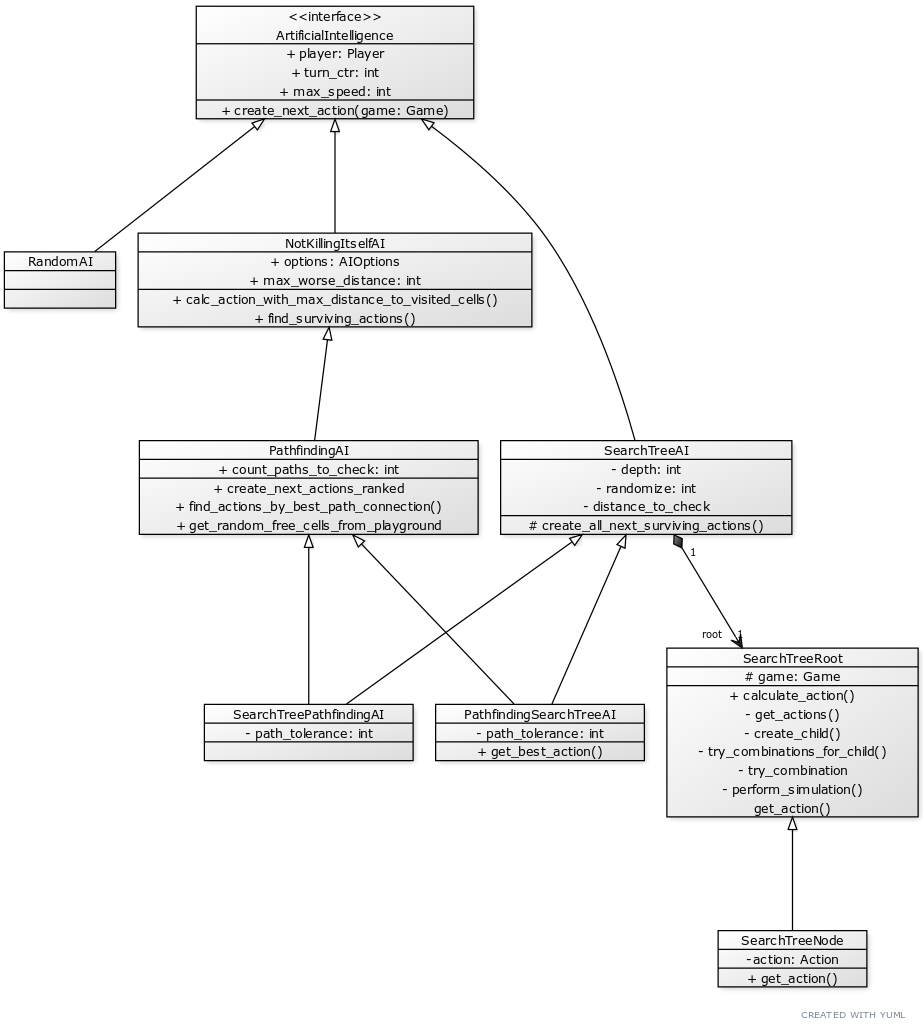
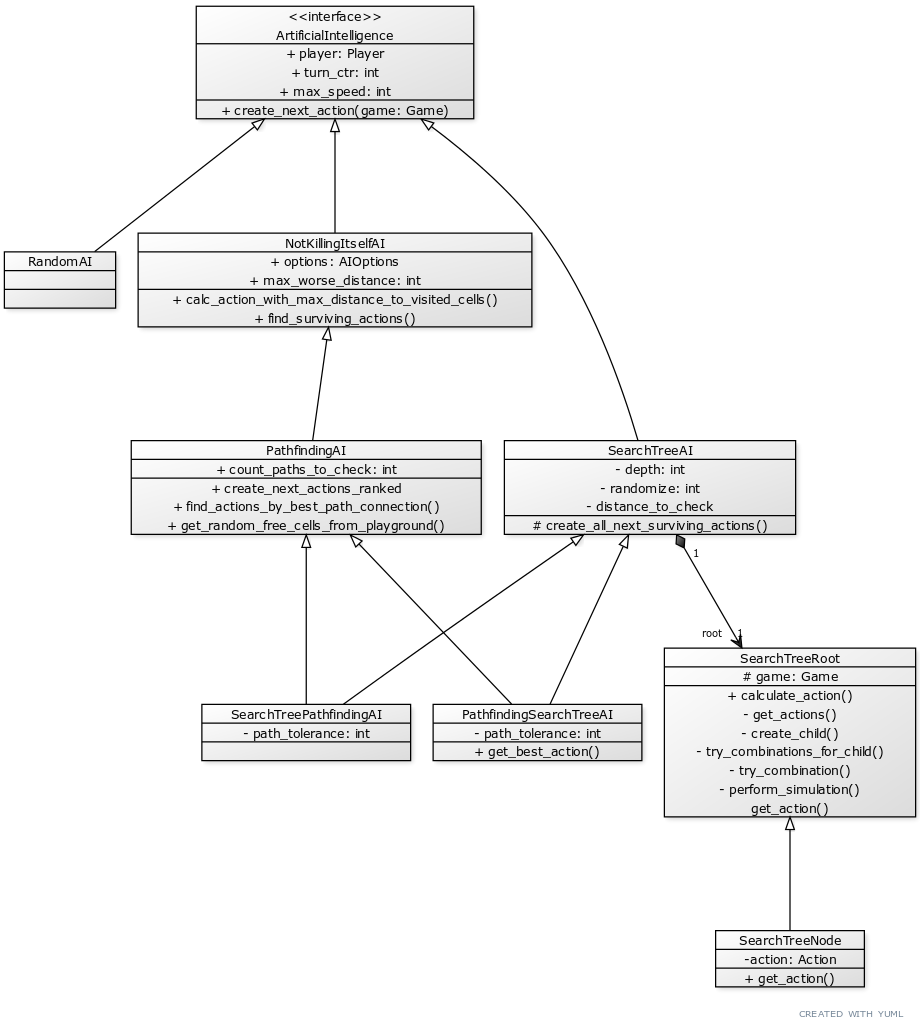
Klassendiagramm korrigieren und einbinden in der Doku

diff --git a/dokumentation/Inhalte/Loesungsansatz.tex b/dokumentation/Inhalte/Loesungsansatz.tex
@@ -22,6 +22,10 @@ Bei dem Ansatz, Strategien fest in Code zu implementieren, hatten wir mehrere un
 die nachfolgend beschrieben werden.
 Ziel war es hierbei, Teilprobleme zu erkennen und zu lösen, mit der Intuition diese unterschiedlichen \ac{KI}s
 kombinieren zu können.
+Die nachfolgend beschriebenen \ac{KI}s und die Abhängigkeiten dieser können in \Anhang{fig:klassendiagramm-AIs}
+nachvollzogen werden.
+Die Mehrfachvererbungen, wie sie im UML-Klassendiagramm dargestellt werden, wurden in der Implementierung durch die
+Verwendung von Python als Programmiersprache genau so umgesetzt.
 
 \subsection{RandomAI}
 \label{subsec:random-ai}

diff --git a/dokumentation/Inhalte/Anhang.tex b/dokumentation/Inhalte/Anhang.tex
@@ -1,6 +1,16 @@
 \chapter{Anhang}
 \label{ch:anhang}
 
+\section{Lösungsansatz}
+\label{sec:anhang-loesungsansatz}
+
+\begin{figure}[htb]
+\centering
+\includegraphics[width=\textwidth]{Bilder/Klassendiagramm_AIs.png}
+\caption{UML-Klassendiagramm der \ac{KI}s}
+\label{fig:klassendiagramm-AIs}
+\end{figure}
+
 \section{Implementierung}
 \label{sec:anhang-implementierung}
 
